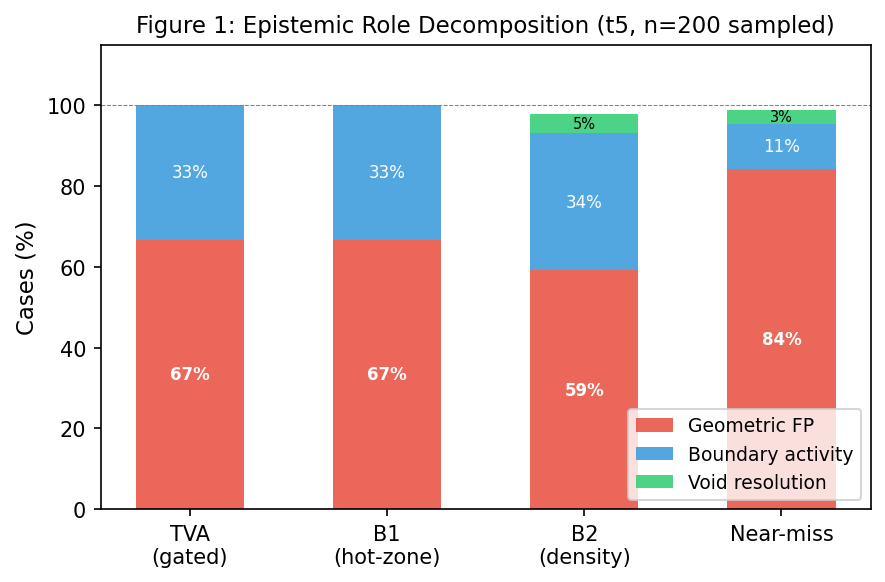
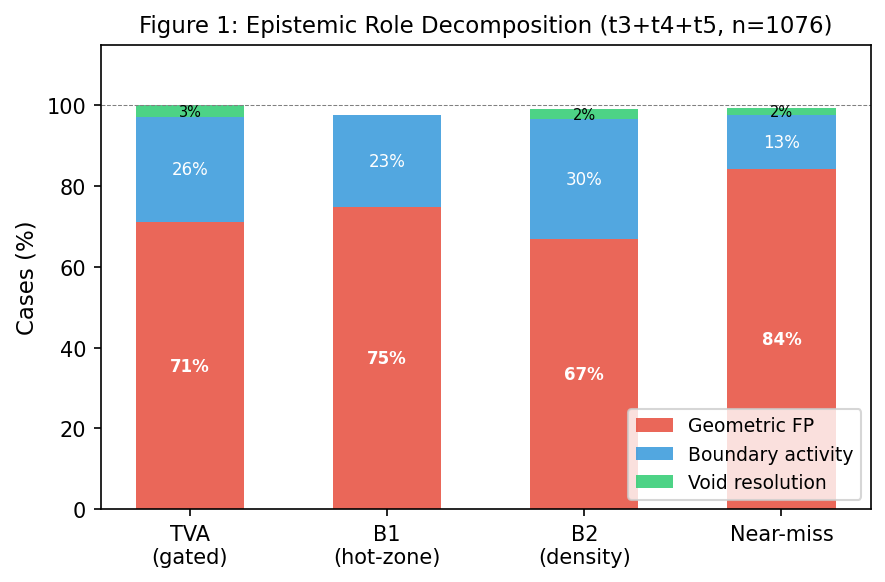
fix(paper2): correct Table 3 n values (t3+t4+t5 combined, n=1076)
Table 3 was reporting t5-only sample (98/73/107/219).
Correct combined numbers:
  TVA n=204 FP=71% [65,77]  VR=3% [1,6]
  B1  n=158 FP=75% [67,81]  VR=0% [0,2]
  B2  n=202 FP=67% [60,73]  VR=2% [1,6]
  NM  n=512 FP=84% [81,87]  VR=2% [1,4]

Also regenerate Fig 1 with full combined dataset.
Update "n=98" text to "n=204 across t3+t4+t5".

diff --git a/paper2/tvv_paper.tex b/paper2/tvv_paper.tex
@@ -287,22 +287,22 @@ limit on temporal validation.}
 
 \begin{table}[h!]
 \centering\small
-\caption{Role audit (500 cases, t3--t5; exploratory, not confirmatory). VR=void resolution; FP=false positive. 95\% Wilson CI in brackets.}
+\caption{Role audit (1076 cases, t3+t4+t5; exploratory). VR=void resolution; FP=false positive. 95\% Wilson CI in brackets (\%).}
 \begin{tabular}{lrccc}
 \toprule
 Source & $n$ & FP & FP CI & VR CI \\
 \midrule
-TVA   & 98  & 69\% & [60,78] & [0,4] \\
-B1    & 73  & 70\% & [59,79] & [0,5] \\
-B2    & 107 & 62\% & [52,70] & [1,8] \\
-NM$^\dagger$ & 219 & 84\% & [79,88] & [1,5] \\
+TVA   & 204 & 71\% & [65,77] & [1,6] \\
+B1    & 158 & 75\% & [67,81] & [0,2] \\
+B2    & 202 & 67\% & [60,73] & [1,6] \\
+NM$^\dagger$ & 512 & 84\% & [81,87] & [1,4] \\
 \bottomrule
 \end{tabular}\\[2pt]
 {\footnotesize $^\dagger$Near-miss (sim$\in[0.75,0.82)$). CI in \%.}
 \end{table}
 
 An exploratory role audit shows 59--76\% false positives across all groups and splits
-(pilot-scale; n$=$98 TVA gated cases, role labels from a single LLM).
+(pilot-scale; n$=$204 TVA gated cases across t3+t4+t5, role labels from a single LLM).
 Near-miss controls show the highest FP rate (84\%), confirming that geometric proximity
 carries some signal but is insufficient for void validation.
 TVA and B1 are indistinguishable; B2 is marginally better.